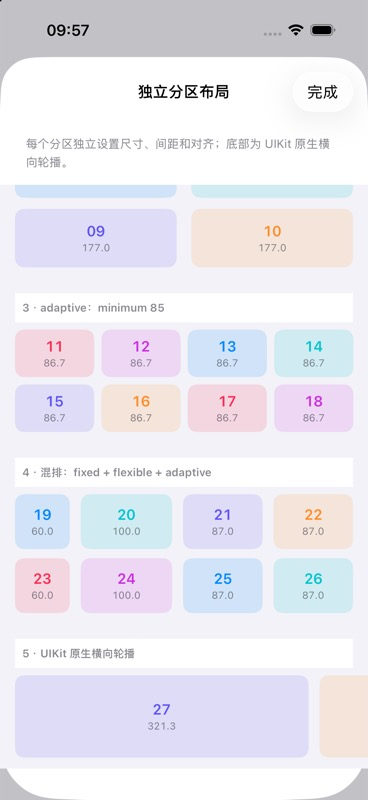
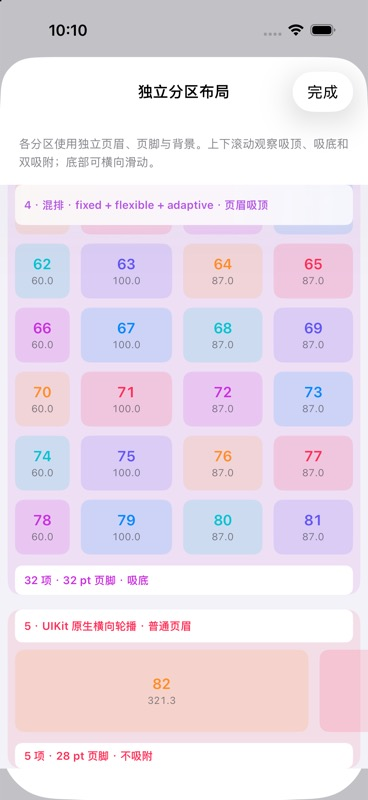
Document per-section headers footers pinning and backgrounds

diff --git a/README.md b/README.md
@@ -167,12 +167,86 @@ let section = UIKitLazyHGridLayout.makeSection(
 
 示例 App 的“多分区”入口展示 fixed、flexible、adaptive、混排和原生横向轮播五个独立分区。
 
-| 独立 fixed / flexible / adaptive 分区 | 混排分区与原生横向轮播 |
+| 独立页眉页脚与分区背景 | 吸附配置与原生横向轮播 |
 | :---: | :---: |
-| <img src="Documentation/Screenshots/multi-sections-top.jpg" alt="多分区上半页真实运行截图" width="320"> | <img src="Documentation/Screenshots/multi-sections-bottom.jpg" alt="混排和 UIKit 原生轮播分区真实运行截图" width="320"> |
+| <img src="Documentation/Screenshots/multi-sections-top.jpg" alt="各分区独立页眉页脚与背景的真实运行截图" width="320"> | <img src="Documentation/Screenshots/multi-sections-bottom.jpg" alt="混排分区吸附页眉页脚及原生轮播背景的真实运行截图" width="320"> |
 
 以上为 iPhone 17 Pro / iOS 26.5 的多分区页面运行截图。
 
+
+
+### 每个分区独立配置辅助视图与背景
+
+“多分区”页同时演示以下配置；页眉和页脚文本直接标明吸附状态，背景使用不同颜色区分分区。分区包含足够多的单元格，可上下滚动观察辅助视图在所属分区范围内的吸附和离开。
+
+| 分区 | Header 高度 | Footer 高度 | 吸附选项 | 背景 |
+| --- | ---: | ---: | --- | --- |
+| fixed | 36 pt | 28 pt | 不吸附 | 蓝色 |
+| flexible | 44 pt | 32 pt | `.sectionHeaders` | 青色 |
+| adaptive | 36 pt | 36 pt | `.sectionFooters` | 橙色 |
+| 混排 | 44 pt | 32 pt | `[.sectionHeaders, .sectionFooters]` | 紫色 |
+| UIKit 原生轮播 | 36 pt | 28 pt | 不吸附 | 粉色 |
+
+网格分区通过 `makeSection` 的参数分别指定 header、footer 和吸附。背景则使用 UIKit 的 decoration：
+
+```swift
+let layout = UICollectionViewCompositionalLayout { sectionIndex, environment in
+    // 示例参数按分区独立存放；可替换为你的数据模型。
+    let style = SectionDemoStyle.all[sectionIndex]
+    let section = UIKitLazyVGridLayout.makeSection(
+        columns: [UIKitGridItem(.adaptive(minimum: 85), spacing: 8)],
+        spacing: 12,
+        pinnedViews: style.pinnedViews,
+        rowHeight: 56,
+        headerHeight: style.headerHeight,
+        footerHeight: style.footerHeight,
+        contentInsets: .init(top: 8, leading: 16, bottom: 12, trailing: 16),
+        environment: environment
+    )
+    let background = NSCollectionLayoutDecorationItem.background(
+        elementKind: SectionBackgroundView.elementKind
+    )
+    background.contentInsets = .init(top: 0, leading: 8, bottom: 0, trailing: 8)
+    background.zIndex = -1
+    section.decorationItems = [background]
+    return section
+}
+layout.register(
+    SectionBackgroundView.self,
+    forDecorationViewOfKind: SectionBackgroundView.elementKind
+)
+```
+
+`SectionDemoStyle`、`SectionBackgroundView` 和下面的 `SectionBoundaryView` 都是示例 App 中定义的类型，不属于 UIKitGridLayouts 的公开 API。背景视图在 `apply(_:)` 中读取 `layoutAttributes.indexPath.section`，使用该分区的颜色；复用时每次重新设置颜色。
+
+Header/footer 属于 supplementary view，由集合视图注册并由数据源提供。只设置尺寸或 `pinnedViews` 不会自动创建视图：
+
+```swift
+for kind in [UICollectionView.elementKindSectionHeader,
+             UICollectionView.elementKindSectionFooter] {
+    collectionView.register(
+        SectionBoundaryView.self,
+        forSupplementaryViewOfKind: kind,
+        withReuseIdentifier: "boundary"
+    )
+}
+
+// 在数据源的 viewForSupplementaryElementOfKind 回调中：
+let view = collectionView.dequeueReusableSupplementaryView(
+    ofKind: kind, withReuseIdentifier: "boundary", for: indexPath
+) as! SectionBoundaryView
+view.configure(
+    section: indexPath.section,
+    isHeader: kind == UICollectionView.elementKindSectionHeader
+)
+return view
+```
+
+- Header/footer 分别通过 `kind` 配置内容；示例每次复用都会覆盖文本、颜色和无障碍标识。
+- Decoration 由 layout 管理，不进入数据源的 supplementary 回调，也不增加数据源的 item 数量。
+- `pinToVisibleBounds` 相对集合视图的可见边界生效，并受所属分区范围约束；页脚吸底不是固定在整个屏幕底部的工具栏。
+- 原生轮播 section 直接创建自己的 boundary supplementary items；它与网格 section 共用注册和数据源机制。
+- 将某个 header/footer 尺寸设为 0 可省略对应布局项；不要对未注册的 kind 创建布局项。
 
 
 ## 混排规则
